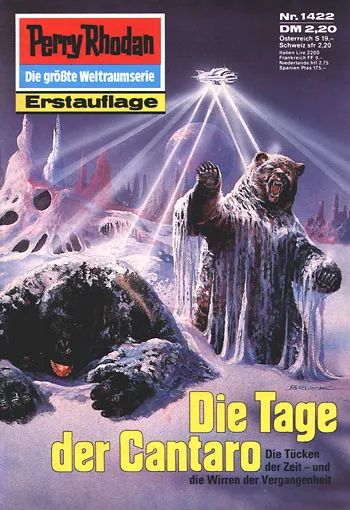
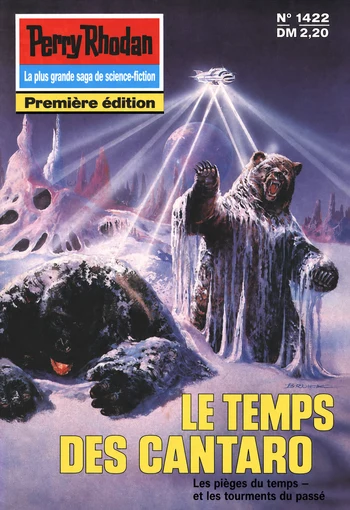
Update French Perry Rhodan covers 1413-1422

diff --git a/src/content/chapitres/de-1417.md b/src/content/chapitres/de-1417.md
@@ -5,7 +5,7 @@ cycleNumber: 21
 chapterNumber: 1417
 type: translation
 originalTitle: "Flug in Richtung Ewigkeit"
-cover: "/images/covers/de-1417.webp"
+cover: "/images/covers/de-1417.webp?v=20260826-1422"
 auteur: "Clark Darlton"
 parution: "1988-10-18"
 statut: traduit

diff --git a/src/content/chapitres/de-1415.md b/src/content/chapitres/de-1415.md
@@ -5,7 +5,7 @@ cycleNumber: 21
 chapterNumber: 1415
 type: translation
 originalTitle: "Die Spur des Propheten"
-cover: "/images/covers/de-1415.webp"
+cover: "/images/covers/de-1415.webp?v=20260826-1422"
 auteur: "Robert Feldhoff"
 parution: "1988-10-04"
 statut: wip

diff --git a/src/content/chapitres/de-1413.md b/src/content/chapitres/de-1413.md
@@ -5,7 +5,7 @@ cycleNumber: 21
 chapterNumber: 1413
 type: translation
 originalTitle: "Enklave Chronopuls-Wall"
-cover: "/images/covers/de-1413.webp"
+cover: "/images/covers/de-1413.webp?v=20260826-1422"
 auteur: "H. G. Francis"
 parution: "1988-09-20"
 statut: wip

diff --git a/src/content/chapitres/de-1416.md b/src/content/chapitres/de-1416.md
@@ -5,7 +5,7 @@ cycleNumber: 21
 chapterNumber: 1416
 type: translation
 originalTitle: "Das Gebot der Götter"
-cover: "/images/covers/de-1416.webp"
+cover: "/images/covers/de-1416.webp?v=20260826-1422"
 auteur: "Arndt Ellmer"
 parution: "1988-10-11"
 statut: wip

diff --git a/src/content/chapitres/de-1418.md b/src/content/chapitres/de-1418.md
@@ -5,7 +5,7 @@ cycleNumber: 21
 chapterNumber: 1418
 type: translation
 originalTitle: "Die Höhle des Giganten"
-cover: "/images/covers/de-1418.webp"
+cover: "/images/covers/de-1418.webp?v=20260826-1422"
 auteur: "Kurt Mahr"
 parution: "1988-10-25"
 statut: wip

diff --git a/src/content/chapitres/de-1414.md b/src/content/chapitres/de-1414.md
@@ -5,7 +5,7 @@ cycleNumber: 21
 chapterNumber: 1414
 type: translation
 originalTitle: "Der letzte Aufbruch"
-cover: "/images/covers/de-1414.webp"
+cover: "/images/covers/de-1414.webp?v=20260826-1422"
 auteur: "K. H. Scheer"
 parution: "1988-09-27"
 statut: wip

diff --git a/src/content/chapitres/de-1422.md b/src/content/chapitres/de-1422.md
@@ -5,7 +5,7 @@ cycleNumber: 21
 chapterNumber: 1422
 type: translation
 originalTitle: "Die Tage der Cantaro"
-cover: "/images/covers/de-1422.webp"
+cover: "/images/covers/de-1422.webp?v=20260826-1422"
 auteur: "Ernst Vlcek"
 parution: "1988-11-22"
 statut: wip

diff --git a/src/content/chapitres/de-1419.md b/src/content/chapitres/de-1419.md
@@ -5,7 +5,7 @@ cycleNumber: 21
 chapterNumber: 1419
 type: translation
 originalTitle: "Der Tod eines Cynos"
-cover: "/images/covers/de-1419.webp"
+cover: "/images/covers/de-1419.webp?v=20260826-1422"
 auteur: "H. G. Ewers"
 parution: "1988-11-01"
 statut: wip

diff --git a/src/content/chapitres/de-1420.md b/src/content/chapitres/de-1420.md
@@ -5,7 +5,7 @@ cycleNumber: 21
 chapterNumber: 1420
 type: translation
 originalTitle: "Sternentore"
-cover: "/images/covers/de-1420.webp"
+cover: "/images/covers/de-1420.webp?v=20260826-1422"
 auteur: "H. G. Ewers"
 parution: "1988-11-08"
 statut: wip

diff --git a/src/content/chapitres/de-1421.md b/src/content/chapitres/de-1421.md
@@ -5,7 +5,7 @@ cycleNumber: 21
 chapterNumber: 1421
 type: translation
 originalTitle: "Zeitzeugen"
-cover: "/images/covers/de-1421.webp"
+cover: "/images/covers/de-1421.webp?v=20260826-1422"
 auteur: "Ernst Vlcek"
 parution: "1988-11-15"
 statut: wip
